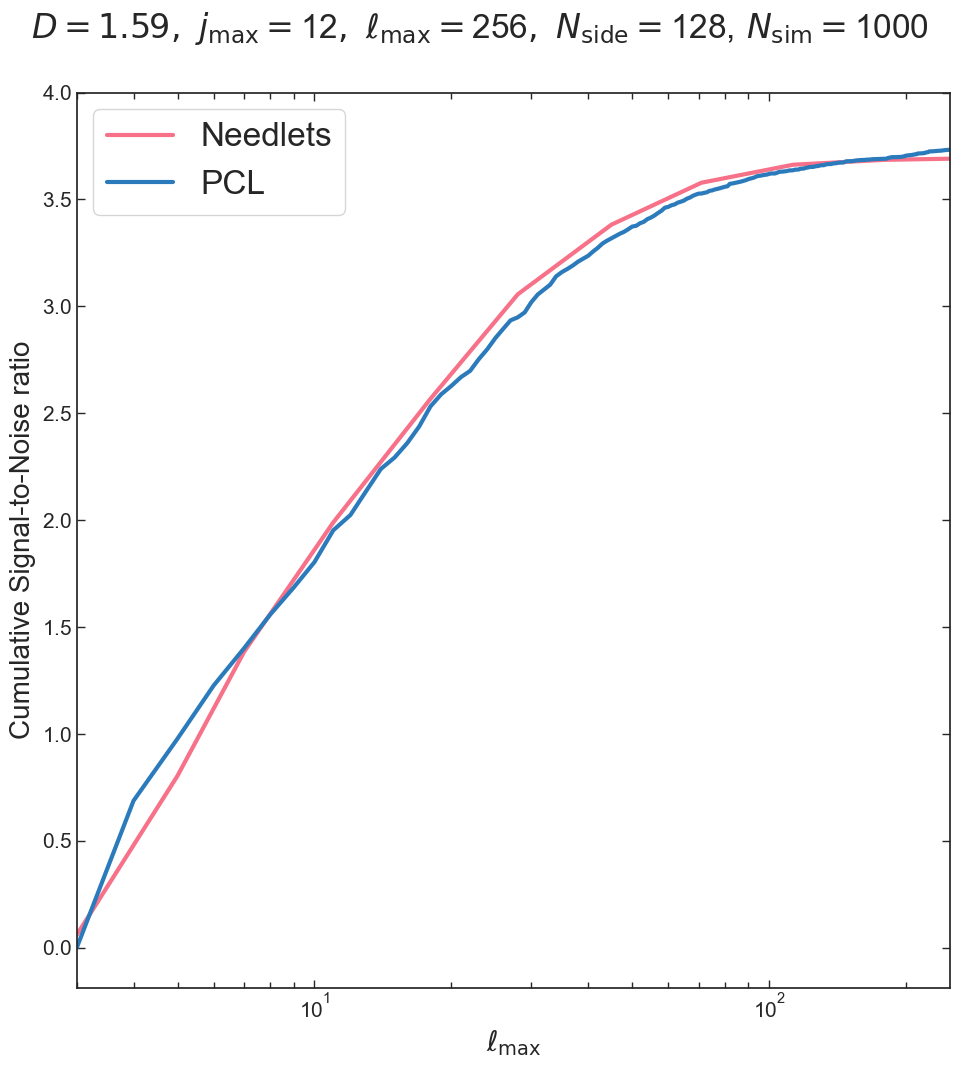
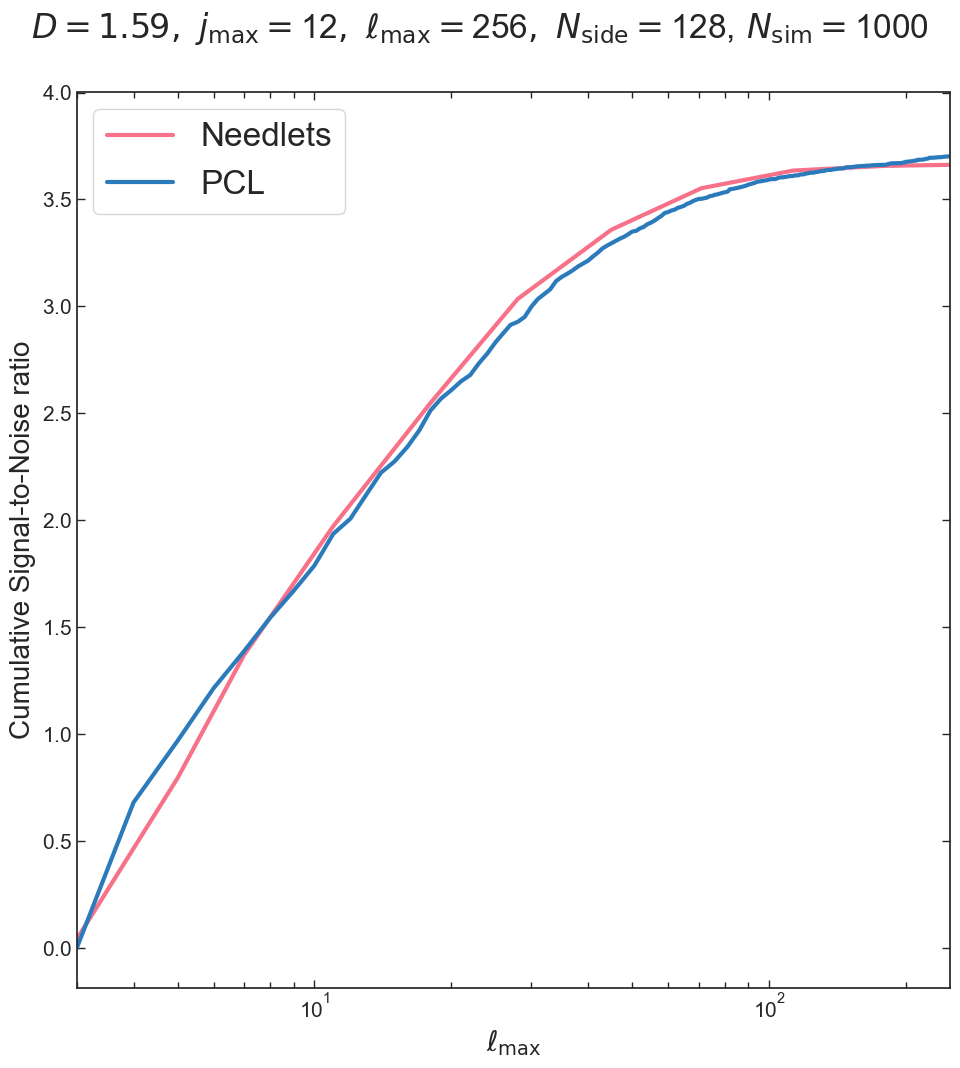
Fixed shot noise

diff --git a/src/TG_needlet_EUCLID_mask_noise2_plot_tesi.py b/src/TG_needlet_EUCLID_mask_noise2_plot_tesi.py
@@ -53,7 +53,7 @@ plt.rcParams['lines.linewidth']  = 3.
 
 # Parameters
 simparams = {'nside'   : 128,
-             'ngal'    : 354543085.80126834, #dovrebbe importare solo per lo shot noise (noise poissoniano)
+             'ngal'    : 35454308.580126834, #dovrebbe importare solo per lo shot noise (noise poissoniano)
  	     	 'ngal_dim': 'ster',
 	     	 'pixwin'  : False}
 
